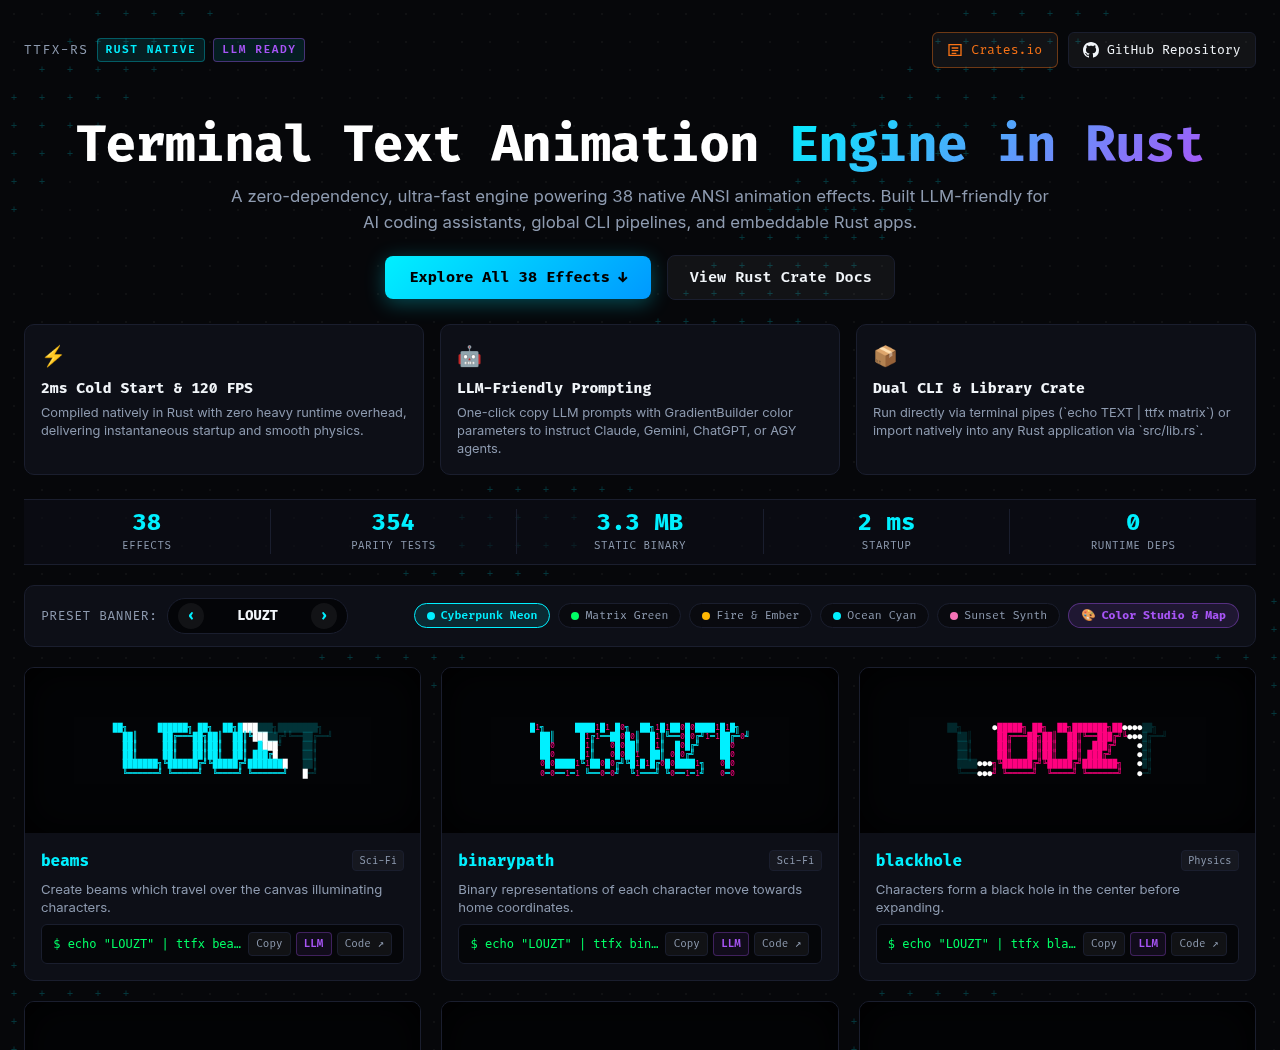
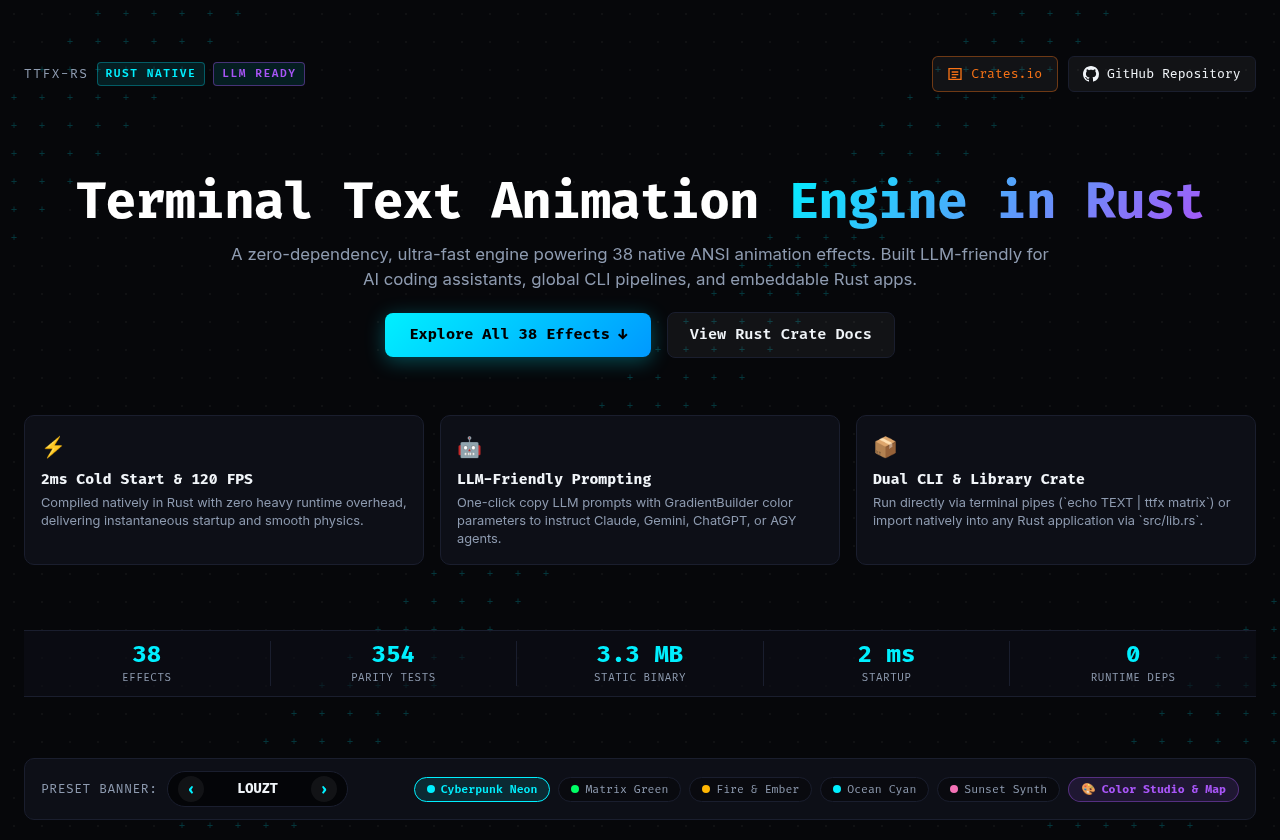
feat(hero): restructure top section into a dedicated 100vh hero fold for clean showcase framing

diff --git a/docs/index.html b/docs/index.html
@@ -124,9 +124,18 @@
             fill: currentColor;
         }
 
-        /* Hero Section */
+        /* Hero Section & 100vh Fold */
+        .hero-screen-fold {
+            min-height: 100vh;
+            display: flex;
+            flex-direction: column;
+            justify-content: space-between;
+            padding: 1.5rem 0 2rem 0;
+            box-sizing: border-box;
+        }
+
         .hero {
-            padding: 1.5rem 0 1.5rem 0;
+            padding: 1rem 0 1rem 0;
             text-align: center;
             display: flex;
             flex-direction: column;
@@ -767,102 +776,104 @@
 
     <div class="content-wrapper">
         <div class="container">
-            <!-- Top Nav -->
-            <div class="top-nav">
-                <div class="meta-header">
-                    <span>TTFX-RS</span>
-                    <span class="badge-tag">RUST NATIVE</span>
-                    <span class="badge-tag" style="color:var(--accent-purple); border-color:rgba(168,85,247,0.4);">LLM READY</span>
-                </div>
-                <div style="display:flex; gap:10px;">
-                    <a href="https://crates.io/crates/ttfx-rs" target="_blank" class="gh-btn" style="border-color: rgba(249, 115, 22, 0.4); color: #f97316;">
-                        <svg viewBox="0 0 24 24" style="fill:currentColor;"><path d="M2 3h20v18H2V3zm2 2v14h16V5H4zm3 3h10v2H7V8zm0 4h10v2H7v-2zm0 4h7v2H7v-2z"/></svg>
-                        <span>Crates.io</span>
-                    </a>
-                    <a href="https://github.com/louzt/ttfx-rs" target="_blank" class="gh-btn">
-                        <svg viewBox="0 0 24 24"><path d="M12 0C5.37 0 0 5.37 0 12c0 5.31 3.435 9.795 8.205 11.385.6.105.825-.255.825-.57 0-.285-.015-1.23-.015-2.235-3.015.555-3.795-.735-4.035-1.41-.135-.345-.72-1.41-1.23-1.695-.42-.225-1.02-.78-.015-.795.945-.015 1.62.87 1.845 1.23 1.08 1.815 2.805 1.305 3.495.99.105-.78.42-1.305.765-1.605-2.67-.3-5.46-1.335-5.46-5.925 0-1.305.465-2.385 1.23-3.225-.12-.3-.54-1.53.12-3.18 0 0 1.005-.315 3.3 1.23.96-.27 1.98-.405 3-.405s2.04.135 3 .405c2.295-1.56 3.3-1.23 3.3-1.23.66 1.65.24 2.88.12 3.18.765.84 1.23 1.905 1.23 3.225 0 4.605-2.805 5.625-5.475 5.925.435.375.81 1.095.81 2.22 0 1.605-.015 2.895-.015 3.3 0 .315.225.69.825.57A12.02 12.02 0 0024 12c0-6.63-5.37-12-12-12z"/></svg>
-                        <span>GitHub Repository</span>
-                    </a>
-                </div>
-            </div>
-
-            <!-- Hero Section -->
-            <section class="hero">
-                <h1 class="hero-title">Terminal Text Animation <span>Engine in Rust</span></h1>
-                <p class="hero-subtitle">
-                    A zero-dependency, ultra-fast engine powering 38 native ANSI animation effects. Built LLM-friendly for AI coding assistants, global CLI pipelines, and embeddable Rust apps.
-                </p>
-                <div class="hero-actions">
-                    <a href="#grid-section" class="cta-btn">
-                        <span>Explore All 38 Effects</span>
-                        <span>↓</span>
-                    </a>
-                    <a href="https://github.com/louzt/ttfx-rs" target="_blank" class="secondary-btn">
-                        <span>View Rust Crate Docs</span>
-                    </a>
-                </div>
-            </section>
-
-            <!-- Features Overview Cards -->
-            <div class="features-grid">
-                <div class="feature-card">
-                    <div class="feature-icon">⚡</div>
-                    <div class="feature-title">2ms Cold Start & 120 FPS</div>
-                    <div class="feature-desc">Compiled natively in Rust with zero heavy runtime overhead, delivering instantaneous startup and smooth physics.</div>
-                </div>
-                <div class="feature-card">
-                    <div class="feature-icon">🤖</div>
-                    <div class="feature-title">LLM-Friendly Prompting</div>
-                    <div class="feature-desc">One-click copy LLM prompts with GradientBuilder color parameters to instruct Claude, Gemini, ChatGPT, or AGY agents.</div>
-                </div>
-                <div class="feature-card">
-                    <div class="feature-icon">📦</div>
-                    <div class="feature-title">Dual CLI & Library Crate</div>
-                    <div class="feature-desc">Run directly via terminal pipes (`echo TEXT | ttfx matrix`) or import natively into any Rust application via `src/lib.rs`.</div>
-                </div>
-            </div>
-
-            <!-- Minimal Stats Bar -->
-            <div class="stats-bar">
-                <div class="stat-item">
-                    <div class="stat-num" id="stat-effects">38</div>
-                    <div class="stat-label">Effects</div>
-                </div>
-                <div class="stat-item">
-                    <div class="stat-num">354</div>
-                    <div class="stat-label">Parity Tests</div>
-                </div>
-                <div class="stat-item">
-                    <div class="stat-num">3.3 MB</div>
-                    <div class="stat-label">Static Binary</div>
-                </div>
-                <div class="stat-item">
-                    <div class="stat-num">2 ms</div>
-                    <div class="stat-label">Startup</div>
-                </div>
-                <div class="stat-item">
-                    <div class="stat-num">0</div>
-                    <div class="stat-label">Runtime Deps</div>
-                </div>
-            </div>
-
-            <!-- Controls Bar with Clickable Carousel Badge (< >) & Custom Color Studio -->
-            <div class="controls-bar" id="grid-section">
-                <div class="carousel-group">
-                    <span class="carousel-label">Preset Banner:</span>
-                    <div class="carousel-badge-container">
-                        <button class="arrow-btn" onclick="cyclePreset(-1)">‹</button>
-                        <span class="preset-badge" id="preset-badge">LOUZT</span>
-                        <button class="arrow-btn" onclick="cyclePreset(1)">›</button>
+            <div class="hero-screen-fold">
+                <!-- Top Nav -->
+                <div class="top-nav">
+                    <div class="meta-header">
+                        <span>TTFX-RS</span>
+                        <span class="badge-tag">RUST NATIVE</span>
+                        <span class="badge-tag" style="color:var(--accent-purple); border-color:rgba(168,85,247,0.4);">LLM READY</span>
+                    </div>
+                    <div style="display:flex; gap:10px;">
+                        <a href="https://crates.io/crates/ttfx-rs" target="_blank" class="gh-btn" style="border-color: rgba(249, 115, 22, 0.4); color: #f97316;">
+                            <svg viewBox="0 0 24 24" style="fill:currentColor;"><path d="M2 3h20v18H2V3zm2 2v14h16V5H4zm3 3h10v2H7V8zm0 4h10v2H7v-2zm0 4h7v2H7v-2z"/></svg>
+                            <span>Crates.io</span>
+                        </a>
+                        <a href="https://github.com/louzt/ttfx-rs" target="_blank" class="gh-btn">
+                            <svg viewBox="0 0 24 24"><path d="M12 0C5.37 0 0 5.37 0 12c0 5.31 3.435 9.795 8.205 11.385.6.105.825-.255.825-.57 0-.285-.015-1.23-.015-2.235-3.015.555-3.795-.735-4.035-1.41-.135-.345-.72-1.41-1.23-1.695-.42-.225-1.02-.78-.015-.795.945-.015 1.62.87 1.845 1.23 1.08 1.815 2.805 1.305 3.495.99.105-.78.42-1.305.765-1.605-2.67-.3-5.46-1.335-5.46-5.925 0-1.305.465-2.385 1.23-3.225-.12-.3-.54-1.53.12-3.18 0 0 1.005-.315 3.3 1.23.96-.27 1.98-.405 3-.405s2.04.135 3 .405c2.295-1.56 3.3-1.23 3.3-1.23.66 1.65.24 2.88.12 3.18.765.84 1.23 1.905 1.23 3.225 0 4.605-2.805 5.625-5.475 5.925.435.375.81 1.095.81 2.22 0 1.605-.015 2.895-.015 3.3 0 .315.225.69.825.57A12.02 12.02 0 0024 12c0-6.63-5.37-12-12-12z"/></svg>
+                            <span>GitHub Repository</span>
+                        </a>
                     </div>
                 </div>
 
-                <div class="palette-options">
-                    <div id="palette-options" style="display:flex; gap:0.5rem; flex-wrap:wrap;"></div>
-                    <button class="palette-pill studio-btn" onclick="openColorStudio()">
-                        <span>🎨</span>
-                        <span>Color Studio & Map</span>
-                    </button>
+                <!-- Hero Section -->
+                <section class="hero">
+                    <h1 class="hero-title">Terminal Text Animation <span>Engine in Rust</span></h1>
+                    <p class="hero-subtitle">
+                        A zero-dependency, ultra-fast engine powering 38 native ANSI animation effects. Built LLM-friendly for AI coding assistants, global CLI pipelines, and embeddable Rust apps.
+                    </p>
+                    <div class="hero-actions">
+                        <a href="#grid-section" class="cta-btn">
+                            <span>Explore All 38 Effects</span>
+                            <span>↓</span>
+                        </a>
+                        <a href="https://github.com/louzt/ttfx-rs" target="_blank" class="secondary-btn">
+                            <span>View Rust Crate Docs</span>
+                        </a>
+                    </div>
+                </section>
+
+                <!-- Features Overview Cards -->
+                <div class="features-grid">
+                    <div class="feature-card">
+                        <div class="feature-icon">⚡</div>
+                        <div class="feature-title">2ms Cold Start & 120 FPS</div>
+                        <div class="feature-desc">Compiled natively in Rust with zero heavy runtime overhead, delivering instantaneous startup and smooth physics.</div>
+                    </div>
+                    <div class="feature-card">
+                        <div class="feature-icon">🤖</div>
+                        <div class="feature-title">LLM-Friendly Prompting</div>
+                        <div class="feature-desc">One-click copy LLM prompts with GradientBuilder color parameters to instruct Claude, Gemini, ChatGPT, or AGY agents.</div>
+                    </div>
+                    <div class="feature-card">
+                        <div class="feature-icon">📦</div>
+                        <div class="feature-title">Dual CLI & Library Crate</div>
+                        <div class="feature-desc">Run directly via terminal pipes (`echo TEXT | ttfx matrix`) or import natively into any Rust application via `src/lib.rs`.</div>
+                    </div>
+                </div>
+
+                <!-- Minimal Stats Bar -->
+                <div class="stats-bar">
+                    <div class="stat-item">
+                        <div class="stat-num" id="stat-effects">38</div>
+                        <div class="stat-label">Effects</div>
+                    </div>
+                    <div class="stat-item">
+                        <div class="stat-num">354</div>
+                        <div class="stat-label">Parity Tests</div>
+                    </div>
+                    <div class="stat-item">
+                        <div class="stat-num">3.3 MB</div>
+                        <div class="stat-label">Static Binary</div>
+                    </div>
+                    <div class="stat-item">
+                        <div class="stat-num">2 ms</div>
+                        <div class="stat-label">Startup</div>
+                    </div>
+                    <div class="stat-item">
+                        <div class="stat-num">0</div>
+                        <div class="stat-label">Runtime Deps</div>
+                    </div>
+                </div>
+
+                <!-- Controls Bar with Clickable Carousel Badge (< >) & Custom Color Studio -->
+                <div class="controls-bar" id="grid-section">
+                    <div class="carousel-group">
+                        <span class="carousel-label">Preset Banner:</span>
+                        <div class="carousel-badge-container">
+                            <button class="arrow-btn" onclick="cyclePreset(-1)">‹</button>
+                            <span class="preset-badge" id="preset-badge">LOUZT</span>
+                            <button class="arrow-btn" onclick="cyclePreset(1)">›</button>
+                        </div>
+                    </div>
+
+                    <div class="palette-options">
+                        <div id="palette-options" style="display:flex; gap:0.5rem; flex-wrap:wrap;"></div>
+                        <button class="palette-pill studio-btn" onclick="openColorStudio()">
+                            <span>🎨</span>
+                            <span>Color Studio & Map</span>
+                        </button>
+                    </div>
                 </div>
             </div>
 
